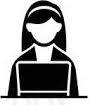
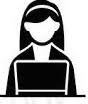
Added top-margin to programmer pic and text beneath

diff --git a/cupcake-bakery.html b/cupcake-bakery.html
@@ -12,7 +12,8 @@
   <body>
     <div class="container clearfix">
       <div class="grid_4">
-        <img src="img/programmerpic.jpeg" alt="Programer Chick">
+        <img class="margin" src="img/programmerpic.jpeg" alt="Programer Chick">
+        <h2>Melissa Alvarez</h2>
       </div>
       <div class="grid_8 omega">
         <ul class="nav">

diff --git a/css/style.css b/css/style.css
@@ -10,6 +10,10 @@ body {
 	height: auto;
 }
 
+.margin {
+	margin-top: 50px;
+}
+
 a {
 	color: #B4C34F;
 	text-decoration: none;
